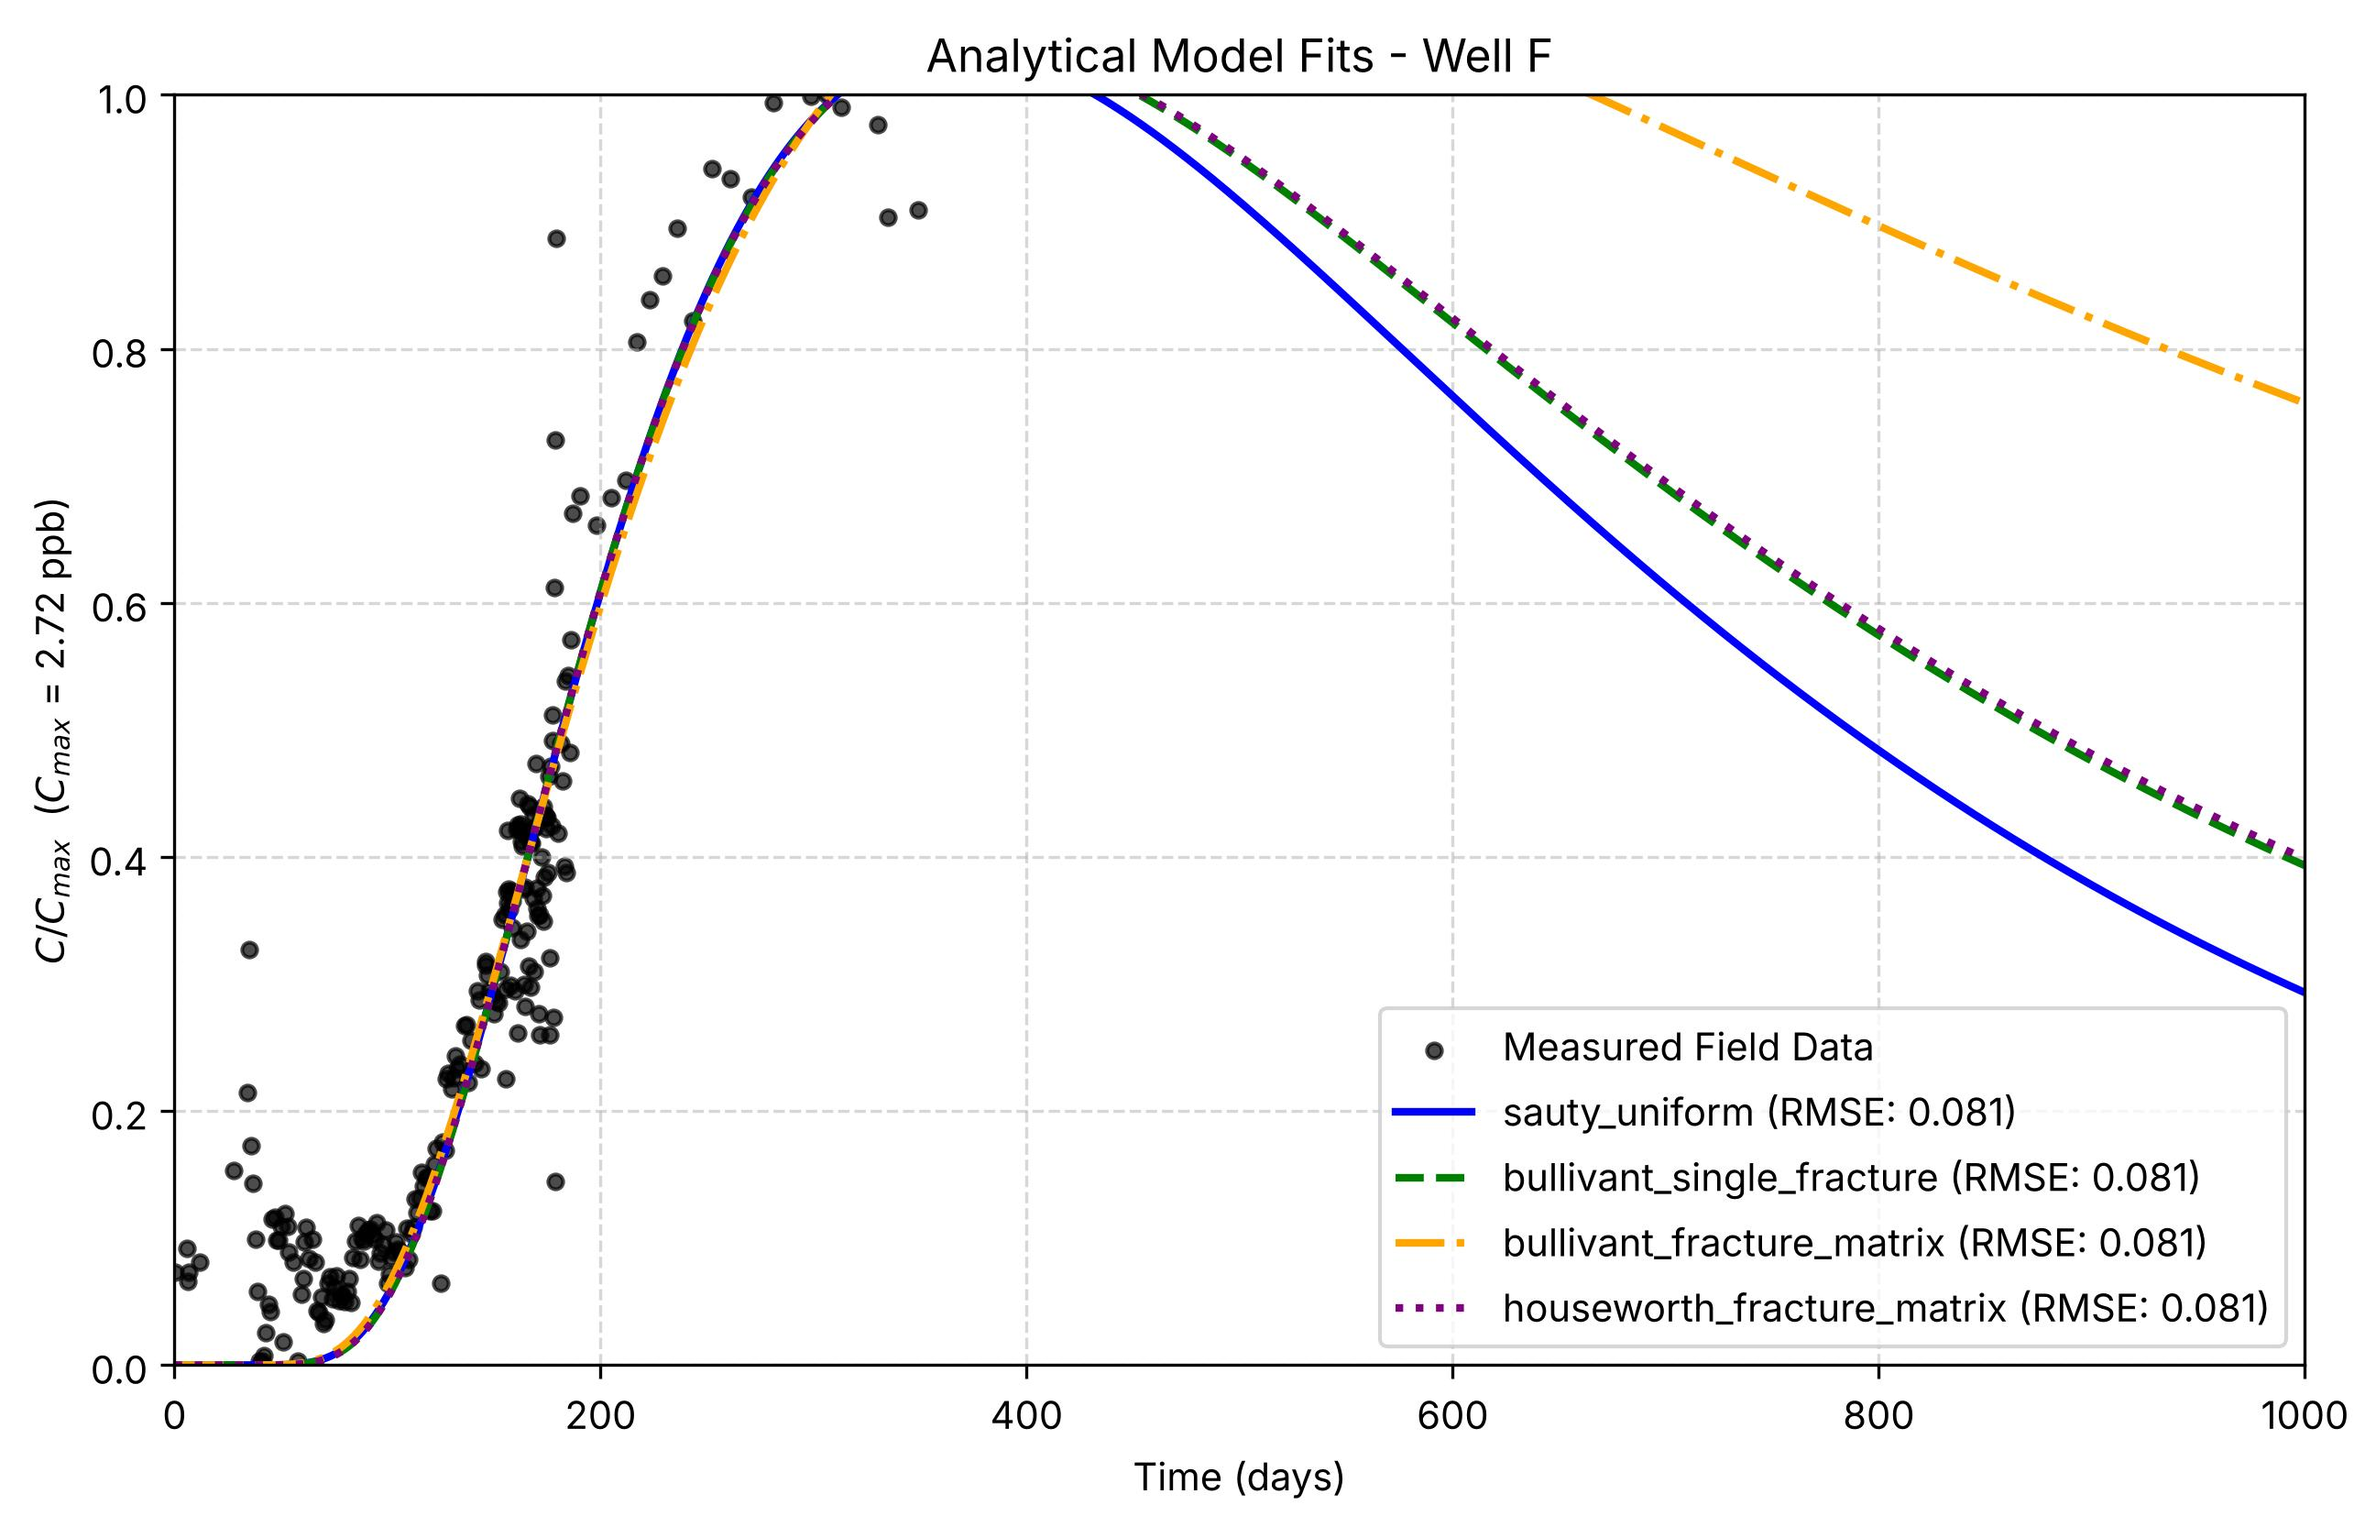
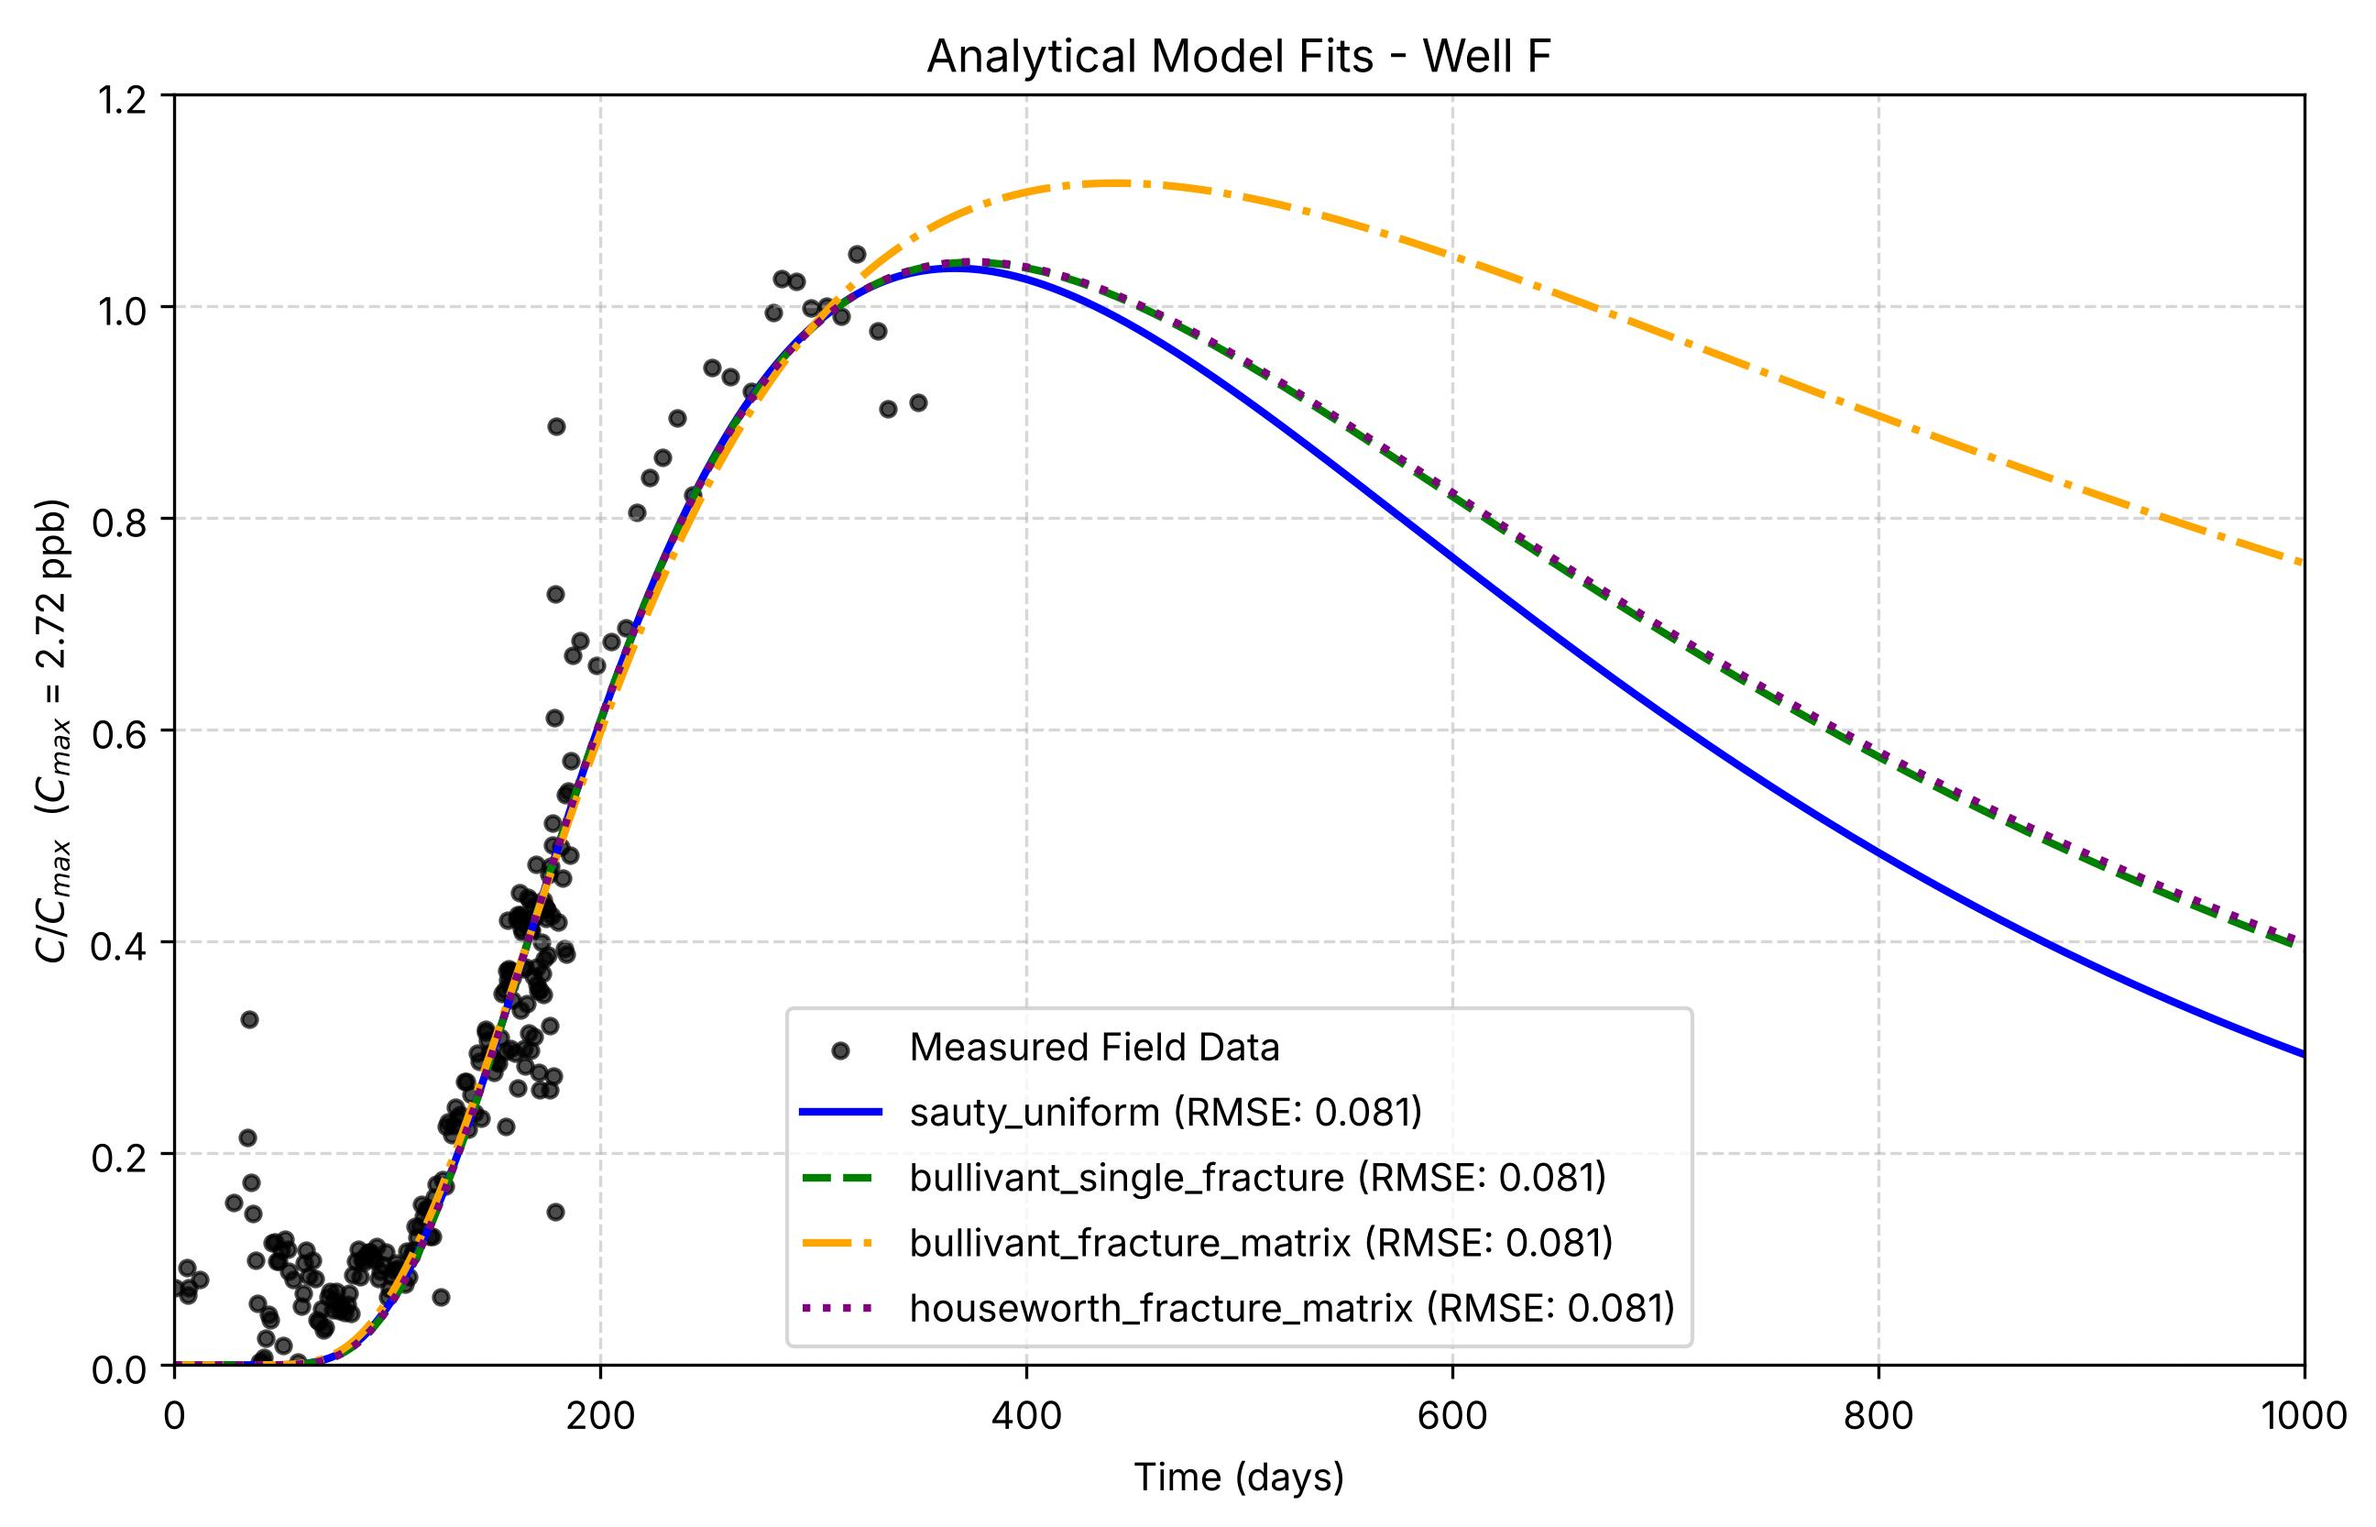
Raise C/C_max axis cap to 1.2
Claude-Session: https://claude.ai/code/session_012rciNb3RLQHPSk3zMHuk9z

diff --git a/tracer_model.py b/tracer_model.py
@@ -347,7 +347,7 @@ def plot_fitted_curves(t_obs, C_obs, fits, well):
     plt.ylabel(f"$C/C_{{max}}$  ($C_{{max}}$ = {C_max:.3g} ppb)")
     plt.title(f"Analytical Model Fits - Well {well.upper()}")
     plt.xlim(0, t_end)
-    plt.ylim(0, 1.0)  # measurements above C_max are clipped
+    plt.ylim(0, 1.2)  # measurements far above C_max are clipped
     plt.grid(True, linestyle="--", alpha=0.5)
     plt.legend()
 
